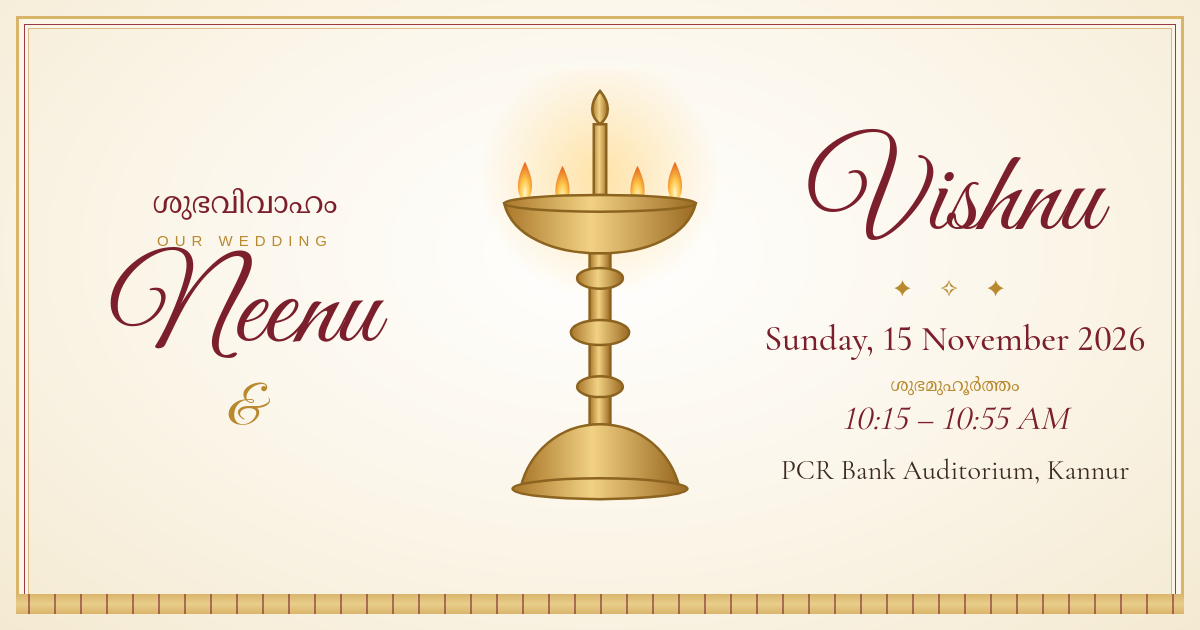
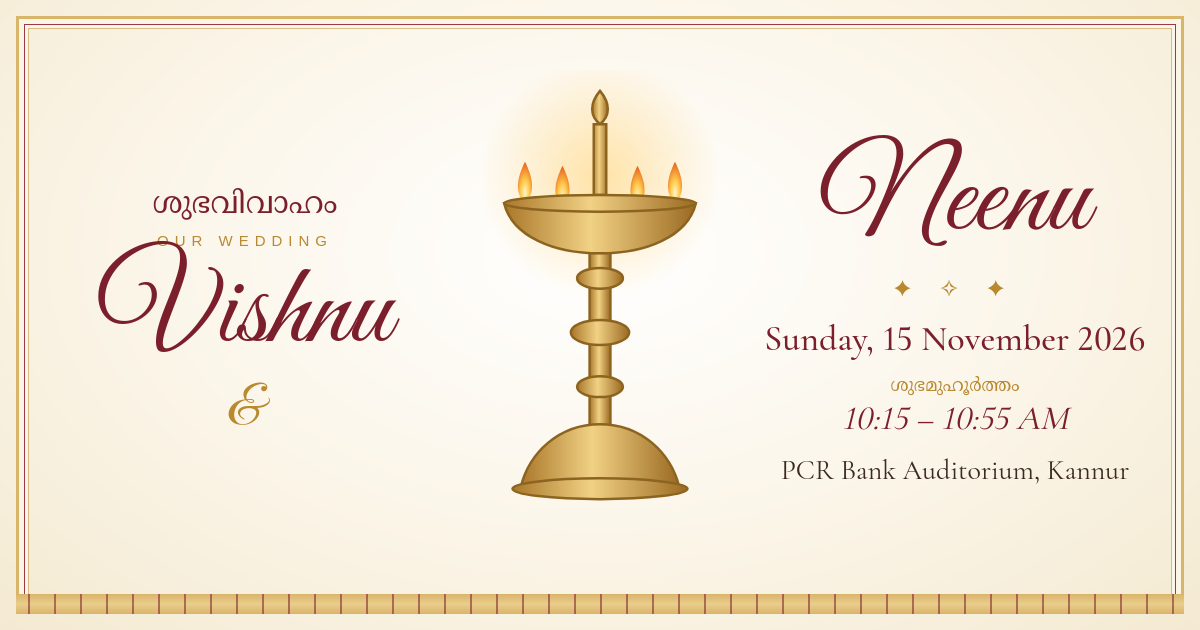
Put Vishnu first and host the invite from his family
Vishnu & Neenu order everywhere, families page now reads as an
invitation from E. V. Sureshan & Sheeba P. V., preview card and
Pages URLs moved to vishnu-neenu-wedding.

Changed region(s): [[0.0617, 0.3619, 0.3392, 0.573], [0.6475, 0.181, 0.925, 0.3921]]

diff --git a/index.html b/index.html
@@ -6,17 +6,17 @@
 <meta name="theme-color" content="#fbf5e8">
 <meta name="description" content="Join us for our wedding on Sunday, 15 November 2026. Muhoortham 10:15 – 10:55 AM at PCR Bank Auditorium, Dharmashala, Kannur.">
 <meta property="og:type" content="website">
-<meta property="og:url" content="https://vishnu13pv.github.io/neenu-vishnu-wedding/">
-<meta property="og:title" content="Neenu &amp; Vishnu — Wedding Invitation">
+<meta property="og:url" content="https://vishnu13pv.github.io/vishnu-neenu-wedding/">
+<meta property="og:title" content="Vishnu &amp; Neenu — Wedding Invitation">
 <meta property="og:description" content="Sunday, 15 November 2026 · Muhoortham 10:15 – 10:55 AM · PCR Bank Auditorium, Dharmashala, Kannur. Your blessings mean the world to us.">
-<meta property="og:image" content="https://vishnu13pv.github.io/neenu-vishnu-wedding/preview.png">
-<meta property="og:image:secure_url" content="https://vishnu13pv.github.io/neenu-vishnu-wedding/preview.png">
+<meta property="og:image" content="https://vishnu13pv.github.io/vishnu-neenu-wedding/preview.png">
+<meta property="og:image:secure_url" content="https://vishnu13pv.github.io/vishnu-neenu-wedding/preview.png">
 <meta property="og:image:type" content="image/png">
 <meta property="og:image:width" content="1200">
 <meta property="og:image:height" content="630">
-<meta property="og:image:alt" content="A lit nilavilakku with the names Neenu and Vishnu">
+<meta property="og:image:alt" content="A lit nilavilakku with the names Vishnu and Neenu">
 <meta name="twitter:card" content="summary_large_image">
-<title>Neenu & Vishnu — Wedding Invitation</title>
+<title>Vishnu & Neenu — Wedding Invitation</title>
 <link rel="preconnect" href="https://fonts.googleapis.com">
 <link rel="preconnect" href="https://fonts.gstatic.com" crossorigin>
 <link href="https://fonts.googleapis.com/css2?family=Cormorant+Garamond:ital,wght@0,400;0,500;0,600;1,400&family=Great+Vibes&family=Noto+Serif+Malayalam:wght@400;600&display=swap" rel="stylesheet">
@@ -218,9 +218,9 @@ body{overflow-x:hidden}
         <svg class="lamp" viewBox="0 0 120 210" role="img" aria-label="A lit nilavilakku"><use href="#nilavilakku"/></svg>
         <div class="ml ml-kicker">ശുഭവിവാഹം</div>
         <div class="kicker">Our Wedding</div>
-        <div class="names">Neenu</div>
-        <div class="amp">&amp;</div>
         <div class="names">Vishnu</div>
+        <div class="amp">&amp;</div>
+        <div class="names">Neenu</div>
         <div class="ornament">✦ ✧ ✦</div>
         <div class="small" style="max-width:340px">With the blessings of the Almighty and our elders, we are tying the knot, and we want you there.</div>
       </div>
@@ -232,7 +232,8 @@ body{overflow-x:hidden}
       <div class="jasmine" data-strands="7"></div>
       <div class="page-inner">
         <div class="kicker">Two Families · One Blessing</div>
-        <div class="person"><div class="person-name">Neenu</div><div class="person-parents">Daughter of Joseph Shaji &amp; Shyla Shaji</div></div>
+        <div class="small" style="max-width:340px;margin-bottom:10px"><b style="font-weight:600;color:var(--maroon)">E. V. Sureshan &amp; Sheeba P. V.</b><br>warmly invite you to the wedding<br>of their son</div>
+        <div class="person"><div class="person-name">Vishnu</div></div>
         <svg class="garland" viewBox="0 0 200 90" aria-hidden="true">
           <!-- two exchanged garlands (varanamaalyam) meeting at a heart -->
           <path class="draw" stroke="#e9e2cf" stroke-width="7" d="M18 8C10 60 70 82 100 58"/>
@@ -241,7 +242,8 @@ body{overflow-x:hidden}
           <path class="draw" stroke="var(--maroon-soft)" stroke-width="3" stroke-dasharray="2 7" d="M182 8C190 60 130 82 100 58"/>
           <path class="draw" stroke="var(--gold)" stroke-width="1.8" fill="none" d="M100 52c-5-9-17-5-13 4 3 6 13 12 13 12s10-6 13-12c4-9-8-13-13-4z"/>
         </svg>
-        <div class="person"><div class="person-name">Vishnu</div><div class="person-parents">Son of E. V. Sureshan &amp; Sheeba P. V.</div></div>
+        <div class="person-parents" style="margin:-4px 0 2px">with</div>
+        <div class="person"><div class="person-name">Neenu</div><div class="person-parents">Daughter of Joseph Shaji &amp; Shyla Shaji</div></div>
         <div class="ornament">❦</div>
         <div class="small" style="color:var(--muted)">From an engagement on the backwaters<br>to a muhoortham in Kannur.</div>
       </div>
@@ -362,10 +364,10 @@ body{overflow-x:hidden}
           we would love to have you there.<br>
           Your blessings are the best gift you can bring.
         </div>
-        <div class="names" style="font-size:clamp(48px,13vw,78px);margin-top:20px">Neenu &amp; Vishnu</div>
+        <div class="names" style="font-size:clamp(48px,13vw,78px);margin-top:20px">Vishnu &amp; Neenu</div>
         <div class="small" style="margin-top:14px;color:var(--muted)">Sunday, 15 November 2026<br>Muhoortham 10:15 – 10:55 AM</div>
       </div>
-      <div class="footer">With love, from us &amp; our families</div>
+      <div class="footer">With love, Vishnu &amp; family</div>
     </section>
 
     <!-- 6 · Thank you -->
@@ -378,7 +380,7 @@ body{overflow-x:hidden}
         <div class="title">Thank You</div>
         <div class="ornament">✦ ♡ ✦</div>
         <div class="text">for being a part of our story.<br>Your love and blessings<br>mean the world to us.</div>
-        <div class="names" style="font-size:clamp(42px,11vw,66px);margin-top:20px">Neenu &amp; Vishnu</div>
+        <div class="names" style="font-size:clamp(42px,11vw,66px);margin-top:20px">Vishnu &amp; Neenu</div>
       </div>
       <div class="footer">Forever grateful</div>
     </section>

diff --git a/README.md b/README.md
@@ -1,5 +1,5 @@
-# neenu-vishnu-wedding
+# vishnu-neenu-wedding
 
-Wedding invitation for Neenu & Vishnu — Sunday, 15 November 2026, muhoortham 10:15–10:55 AM, PCR Bank Auditorium, Dharmashala, Kannur.
+Wedding invitation for Vishnu & Neenu — Sunday, 15 November 2026, muhoortham 10:15–10:55 AM, PCR Bank Auditorium, Dharmashala, Kannur.
 
 Served with GitHub Pages from `index.html`. `preview.png` is the 1200×630 WhatsApp/link preview card.
